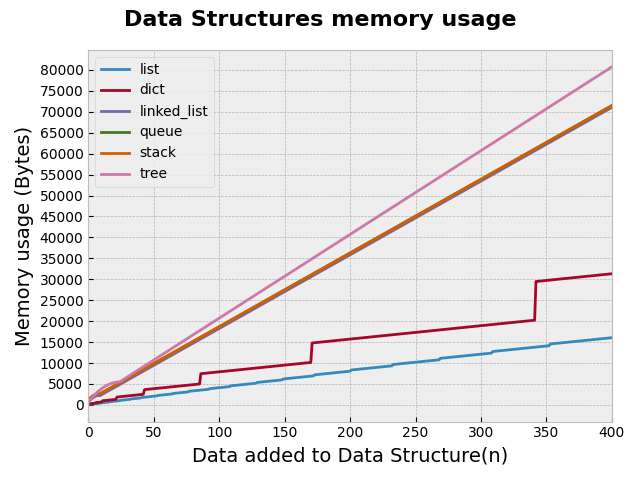
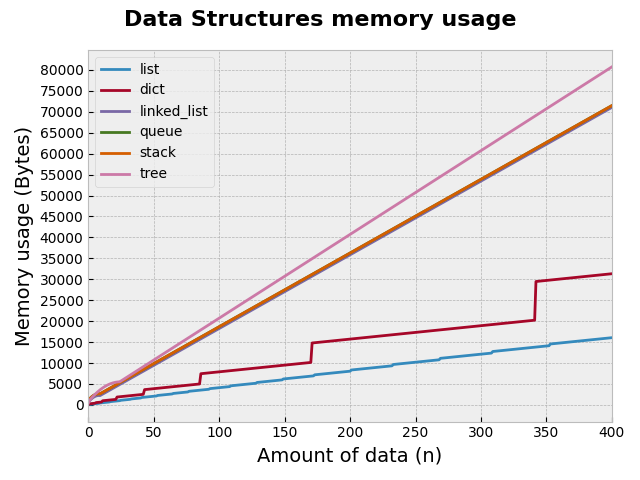
feat: implement heritage for reuse of duplicated methods

Changed region(s): [[0.2812, 0.9062, 0.8125, 0.9688]]

diff --git a/src/performance.py b/src/performance.py
@@ -14,7 +14,8 @@ from data_structures.binary_tree import BinaryTree
 
 class MemoryAnalyzer:
 
-    def __init__(self):
+    def __init__(self, datapoints):
+        self.__datapoints = datapoints
         self.__list = []
         self.__dict = {}
         self.__linked_list = LinkedList()
@@ -22,7 +23,7 @@ class MemoryAnalyzer:
         self.__stack = Stack()
         self.__tree = BinaryTree()
 
-        self.values_for_test = random.sample(range(10000), 400)
+        self.values_for_test = random.sample(range(100000), self.__datapoints)
         self.__memory_usage = pd.DataFrame(columns=['list', 'dict', 'linked_list', 'queue', 'stack', 'tree'])
 
     def __measure_memory_sizes(self):
@@ -60,9 +61,9 @@ class MemoryAnalyzer:
         fig, axes = plt.subplots(1, 1)
         self.__memory_usage.plot(ax= axes)
 
-        axes.set_xlabel("Data added to Data Structure(n)", fontsize=14)
+        axes.set_xlabel("Amount of data (n)", fontsize=14)
         axes.set_ylabel("Memory usage (Bytes)", fontsize=14)
-        axes.set_xlim(0, 400)
+        axes.set_xlim(0, self.__datapoints)
         axes.grid(True)
         plt.locator_params(axis='y', nbins=20)
         plt.locator_params(axis='x', nbins=15)
@@ -70,115 +71,134 @@ class MemoryAnalyzer:
         fig.tight_layout()
 
 
-class PerformanceAnalyzer:
+class TimeAnalyzer:
+
+    def __init__(self, datapoints, title):
+        self.__datapoints = datapoints
+        self.__title = title
+        self.ref_curves_scale = 0.000001
+
+        self._list = []
+        self._dict = {}
+        self._linked_list = LinkedList()
+        self._tree = BinaryTree()
+
+        self.values_for_test = random.sample(range(100000), self.__datapoints)
+        self._times = pd.DataFrame(columns=['list', 'linked_list', 'dict', 'tree'])
+
+    def measure_times(self):
+        pass
+
+    @staticmethod
+    def __get_reference_curves(datapoints):
+        curves = { 'O(1)': [1]*datapoints,
+                   'O(log n)': np.log10(range(1,datapoints)),
+                   "O(n)": range(0,datapoints)
+                   }
+        return curves
+
+    def __config_axis(self, ax):
+        ax.set_xlabel("Amount of data (n)", fontsize=14)
+        ax.set_ylabel("Time (s)", fontsize=14)
+        ax.set_xlim(50, self.__datapoints)
+        ax.set_yscale('log')
+        ax.set_xscale('log')
+        ax.grid(True)
+        ax.legend(loc='upper left')
+
+    def __plot_linear_data(self, linear_data:pd.DataFrame, ax):
+        linear_data.plot(ax= ax)
+
+        linear_curve = self.__get_reference_curves(self.__datapoints)['O(n)']
+        linear_curve = [point * self.ref_curves_scale for point in linear_curve]
+        ax.plot(linear_curve, '--', label='O(n)')
+
+        self.__config_axis(ax)
+
+    def __plot_non_linear_data(self, non_linear_data: pd.DataFrame, ax):
+        non_linear_data.plot(ax= ax)
+
+        reference_curves = self.__get_reference_curves(self.__datapoints)
+        reference_curves.pop('O(n)')
+        for ref_curve_key, ref_curve in reference_curves.items():
+            ref_curve = [point * self.ref_curves_scale for point in ref_curve]
+            ax.plot(ref_curve, '--', label=ref_curve_key)
+
+        self.__config_axis(ax)
+
+    def plot_times(self):
+        plt.style.use("bmh")
+        fig, ax = plt.subplots(2, 1, figsize=(6, 8), sharex=True)
+
+        times_moving_avg = self._times.rolling(window=50).mean()
+
+        self.__plot_linear_data(times_moving_avg.loc[:, ['list', 'linked_list']], ax[0])
+        self.__plot_non_linear_data(times_moving_avg.loc[:, ['dict', 'tree']], ax[1])
+
+        fig.suptitle(self.__title, fontsize=16, fontweight='bold')
+        fig.tight_layout()
+
+
+class InsertTimeAnalyzer(TimeAnalyzer):
 
     def __init__(self, datapoints):
-        self.__list = []
-        self.__dict = {}
-        self.__linked_list = LinkedList()
-        self.__tree = BinaryTree()
+        super().__init__(datapoints, "Insertion Time")
 
-        self.__datapoints = datapoints
-        self.values_for_test = random.sample(range(100000), self.__datapoints)
-
-        self.__insert_times = pd.DataFrame(columns=['list', 'dict', 'linked_list', 'tree'])
-        self.__search_times = pd.DataFrame(columns=['list', 'dict', 'linked_list', 'tree'])
-
-    def measure_insert_time(self):
+    def measure_times(self):
         def add_to_dict(new_key):
-            self.__dict[new_key] = None
+            self._dict[new_key] = None
 
-        self.__linked_list.add_at_head(-1)
+        self._linked_list.add_at_head(-1)
 
         counter = 0
         for test_value in self.values_for_test:
             new_index = random.randint(0, counter)
-            list_insert_time = timeit.timeit(lambda: self.__list.insert(new_index, test_value), number=1)
-            linked_list_insert_time = timeit.timeit(lambda: self.__linked_list.add_at_index(new_index, test_value), number=1)
+            list_insert_time = timeit.timeit(lambda: self._list.insert(new_index, test_value), number=1)
+            linked_list_insert_time = timeit.timeit(lambda: self._linked_list.add_at_index(new_index, test_value), number=1)
 
             dict_insert_time = timeit.timeit(lambda: add_to_dict(test_value), number=1)
-            tree_insert_time = timeit.timeit(lambda: self.__tree.insert_node(test_value, None), number=1)
+            tree_insert_time = timeit.timeit(lambda: self._tree.insert_node(test_value, None), number=1)
 
-            self.__insert_times.loc[counter, :] = [list_insert_time,
-                                                   dict_insert_time,
-                                                   linked_list_insert_time,
-                                                   tree_insert_time]
+            self._times.loc[counter, :] = [list_insert_time,
+                                           linked_list_insert_time,
+                                           dict_insert_time,
+                                           tree_insert_time]
+            counter += 1
 
-            # measure search times
+
+class SearchTimeAnalyzer(TimeAnalyzer):
+
+    def __init__(self, datapoints):
+        super().__init__(datapoints, "Search Time")
+
+    def measure_times(self):
+        self._linked_list.add_at_head(-1)
+
+        counter = 0
+        for test_value in self.values_for_test:
+            new_index = random.randint(0, counter)
+            self._list.insert(new_index, test_value)
+            self._linked_list.add_at_index(new_index, test_value)
+            self._dict[test_value] = None
+            self._tree.insert_node(test_value, None)
+
             if counter == 0:
                 item_to_search_idx = 0
             else:
                 item_to_search_idx = random.sample(range(0,counter), 1)[0]
             key_to_search = self.values_for_test[item_to_search_idx]
 
-            list_search_time = timeit.timeit(lambda: key_to_search in self.__list, number=1)
-            linked_list_search_time = timeit.timeit(lambda: self.__linked_list.get_index(item_to_search_idx), number=1)
+            list_search_time = timeit.timeit(lambda: key_to_search in self._list, number=1)
+            linked_list_search_time = timeit.timeit(lambda: self._linked_list.get_index(item_to_search_idx), number=1)
+            dict_search_time = timeit.timeit(lambda: self._dict[key_to_search], number=1)
+            tree_search_time = timeit.timeit(lambda: self._tree.get_value(key_to_search), number=1)
 
-            dict_search_time = timeit.timeit(lambda: self.__dict[key_to_search], number=1)
-            tree_search_time = timeit.timeit(lambda: self.__tree.get_value(key_to_search), number=1)
-
-            self.__search_times.loc[counter, :] = [list_search_time, dict_search_time, linked_list_search_time, tree_search_time]
-
+            self._times.loc[counter, :] = [list_search_time,
+                                           linked_list_search_time,
+                                           dict_search_time,
+                                           tree_search_time]
             counter += 1
 
-
-    @staticmethod
-    def __get_reference_curves(datapoints):
-        curves = { 'constant': [1]*datapoints,
-                   'logn': np.log10(range(1,datapoints)),
-                   "linear": range(0,datapoints)
-                   }
-        return curves
-
-    def plot_insert_time(self):
-        plt.style.use("bmh")
-
-        fig, axes = plt.subplots(1, 1)
-        speeds_rolling_mean= self.__insert_times.rolling(window=50).mean()
-        speeds_rolling_mean.plot(ax= axes)
-
-        # Plot
-        scale = 0.000001
-        for ref_curve_key, ref_curve in self.__get_reference_curves(self.__datapoints).items():
-            ref_curve = [point*scale for point in ref_curve]
-            plt.plot(ref_curve, '--', label=ref_curve_key)
-
-        axes.set_xlabel("Data added to Data Structure(n)", fontsize=14)
-        axes.set_ylabel("Time (s)", fontsize=14)
-        axes.set_xlim(50, self.__datapoints)
-        axes.grid(True)
-        plt.locator_params(axis='y', nbins=20)
-        plt.locator_params(axis='x', nbins=15)
-        fig.suptitle("Insert Time", fontsize=16, fontweight='bold')
-        fig.tight_layout()
-        plt.legend()
-        plt.yscale('log')
-        plt.xscale('log')
-
-    def plot_search_time(self):
-        plt.style.use("bmh")
-
-        fig, axes = plt.subplots(1, 1)
-        speeds_rolling_mean= self.__search_times.rolling(window=50).mean()
-        speeds_rolling_mean.plot(ax= axes)
-
-        # Plot
-        scale = 0.000001
-        for ref_curve_key, ref_curve in self.__get_reference_curves(self.__datapoints).items():
-            ref_curve = [point*scale for point in ref_curve]
-            plt.plot(ref_curve, '--', label=ref_curve_key)
-
-        axes.set_xlabel("Data added to Data Structure(n)", fontsize=14)
-        axes.set_ylabel("Time (s)", fontsize=14)
-        axes.set_xlim(50, self.__datapoints)
-        axes.grid(True)
-        plt.locator_params(axis='y', nbins=20)
-        plt.locator_params(axis='x', nbins=15)
-        fig.suptitle("Search Time", fontsize=16, fontweight='bold')
-        fig.tight_layout()
-        plt.legend()
-        plt.yscale('log')
-        plt.xscale('log')
 
 class Analyzer:
     OUTPUT_DIR = "outputs"
@@ -191,25 +211,36 @@ class Analyzer:
             os.mkdir(self.OUTPUT_DIR)
 
     def evaluate_memory(self):
-        print("Memory evaluation!")
-        memory_checker = MemoryAnalyzer()
+        print("Processing memory usage ..")
+        memory_checker = MemoryAnalyzer(400)
         memory_checker.gather_memory_usage()
         memory_checker.plot_memory_usage()
 
         plt.savefig(self.OUTPUT_DIR + "/memory_usage.png")
+        print("Done!")
+
+    def evaluate_time(self, time_analyzer:TimeAnalyzer, output_file):
+        time_analyzer.measure_times()
+        time_analyzer.plot_times()
+
+        plt.savefig(self.OUTPUT_DIR + output_file)
+        # plt.show()
 
     def evaluate_insertion_time(self):
-        performance_checker = PerformanceAnalyzer(10000)
-        performance_checker.measure_insert_time()
-        performance_checker.plot_insert_time()
-        performance_checker.plot_search_time()
+        print("Processing insertion time ..")
+        insert_timer = InsertTimeAnalyzer(20000)
+        self.evaluate_time(insert_timer, "/insertion_time.png")
+        print("Done!")
 
-        # plt.savefig(self.OUTPUT_DIR + "/insert_time.png")
-        plt.show()
+    def evaluate_search_time(self):
+        print("Processing search time ..")
+        search_timer = SearchTimeAnalyzer(20000)
+        self.evaluate_time(search_timer, "/search_time.png")
+        print("Done!")
 
 
 if __name__ == "__main__":
     analyzer = Analyzer()
-    # analyzer.evaluate_memory()
-
+    analyzer.evaluate_memory()
     analyzer.evaluate_insertion_time()
+    analyzer.evaluate_search_time()
